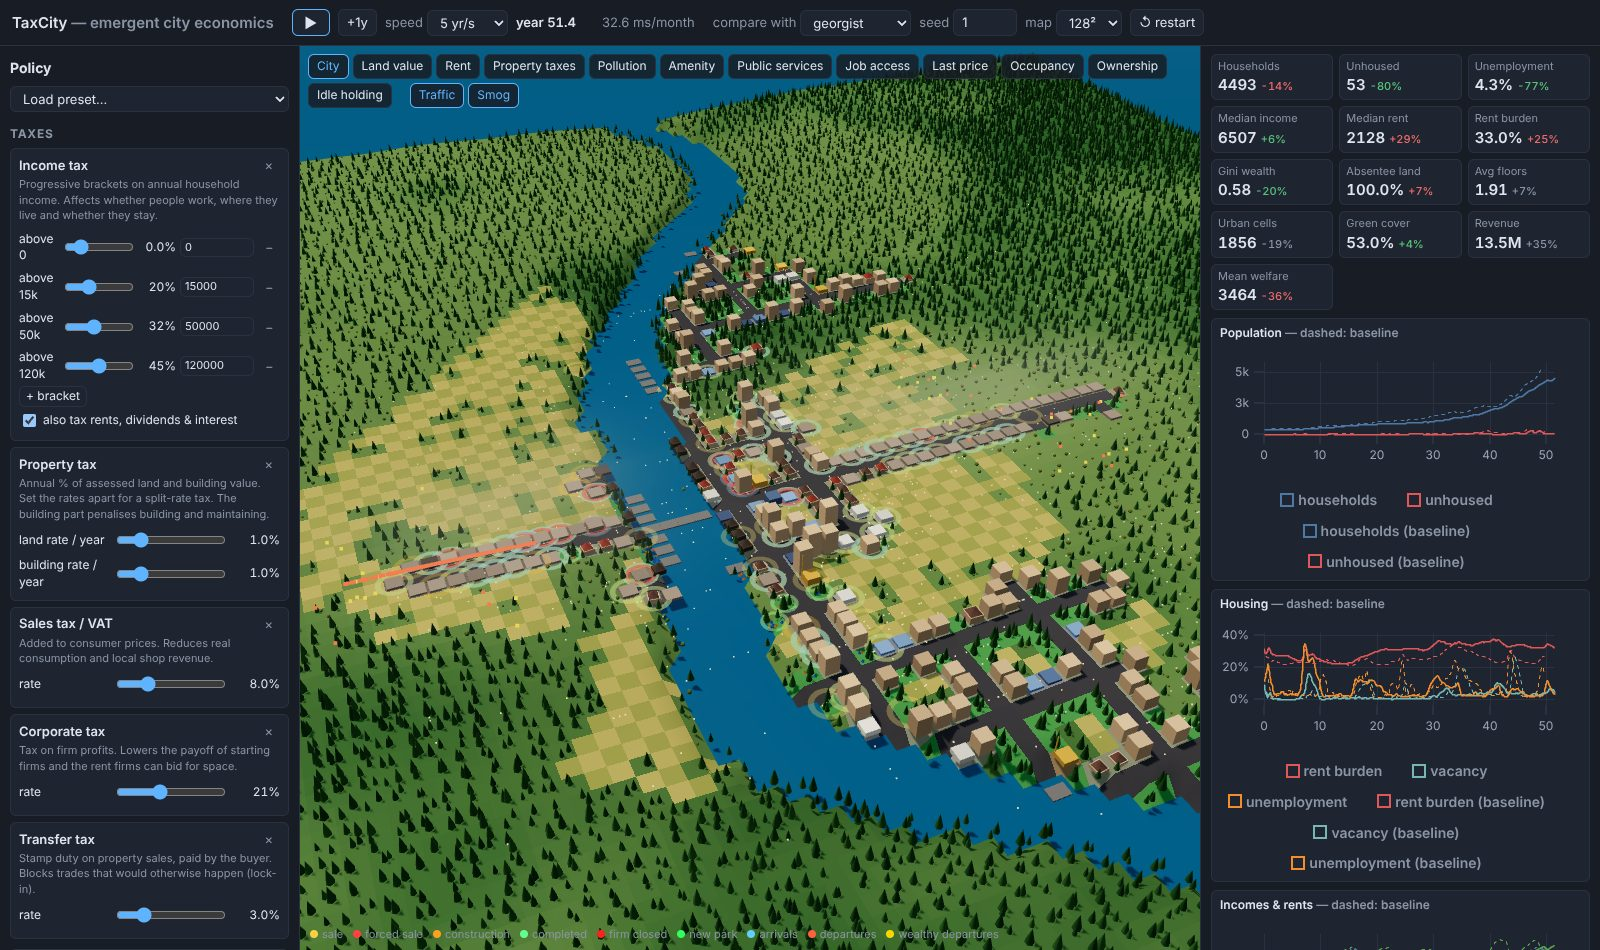
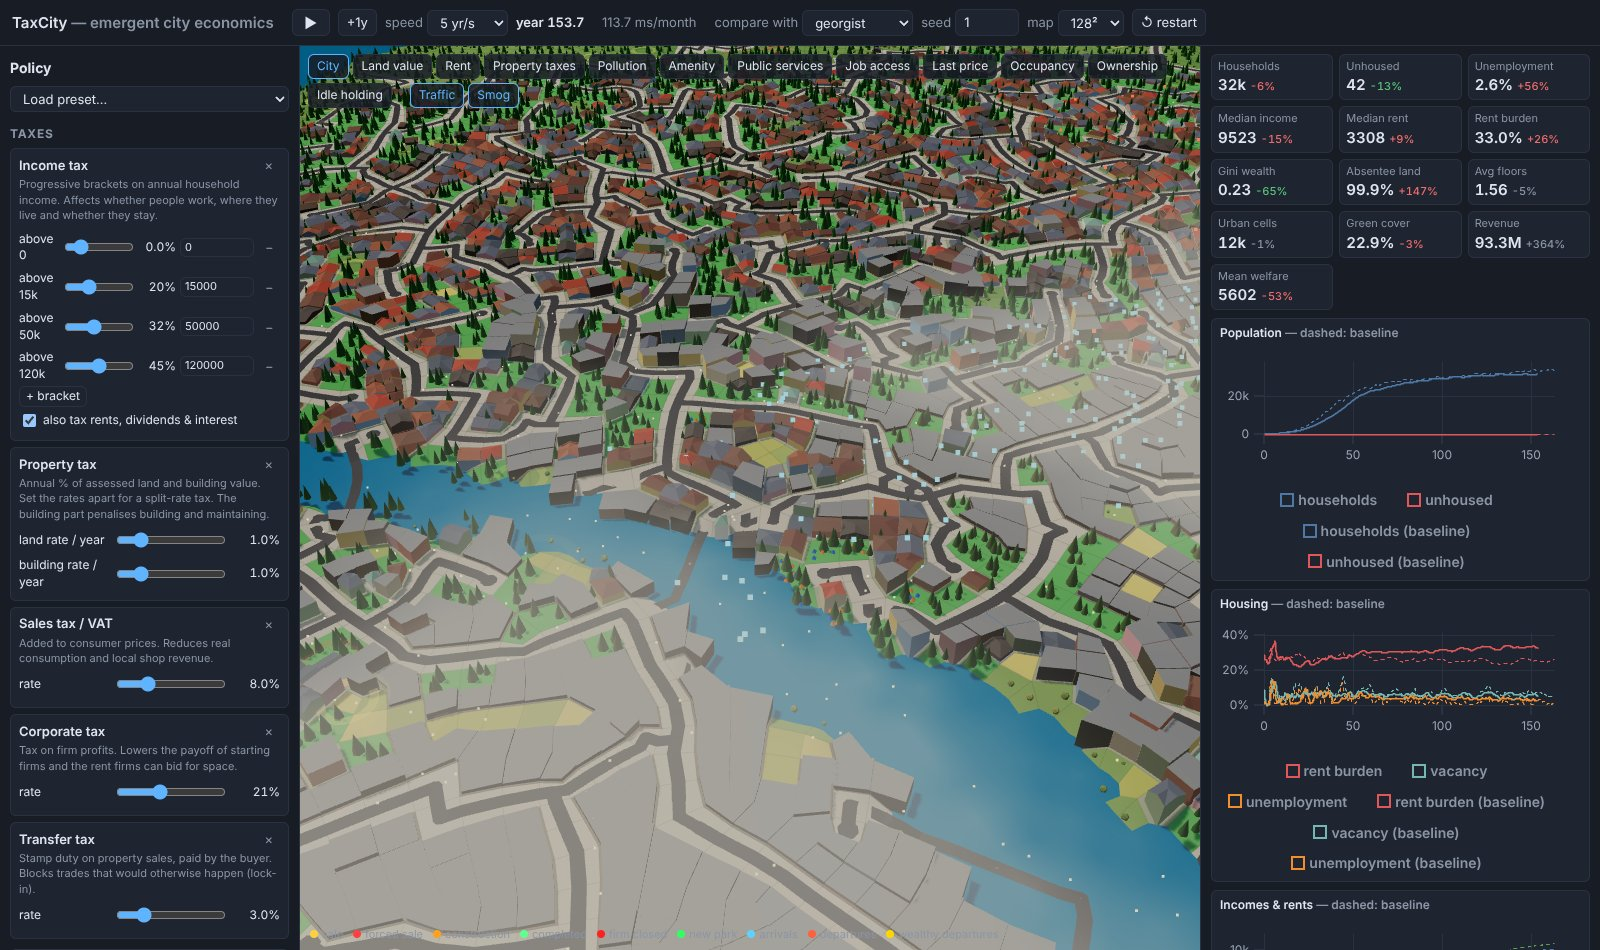
Refresh documented results and README screenshots for the new grid
Re-run the preset comparison (6 seeds x 40 years) and the long audits
under the road planner, note the two Nordic seeds whose export slumps
push unemployment past the audit bound, and replace the screenshots of
the old square grid.

Claude-Session: https://claude.ai/code/session_012WSYYjwYHPEePzuxWuqs7N

diff --git a/docs/model.md b/docs/model.md
@@ -341,20 +341,22 @@ real staff by year 200). Export income per worker grew fourfold, wages fell and 
 ## What the model currently says, and how much to trust it
 
 These are 6 seeds × 40 years, from `taxsim compare` (mean ± standard error; see the README). Differences
-smaller than a couple of standard errors are noise. All presets also pass every audit check over 300 years
-(seed 1), and the Georgist preset for 500 years; cities settle at roughly 26 000–40 000 households.
+smaller than a couple of standard errors are noise. Over 200 years (seed 1) the status quo, Georgist and
+Harberger presets pass every audit check, and cities settle at roughly 26 000–36 000 households. The Nordic
+preset passes in 6 of 8 seeds over 100 years; in the other two, unemployment briefly exceeds the 25% bound
+during an export slump (a town whose jobs are almost all in export industry, with a single shop or two).
 
 * **Georgist** (6% land value tax, dividend):
-  * a larger city than the status quo (≈ 9 600 vs ≈ 8 000 households, about two standard errors), higher
-    output, slightly lower rents and taller buildings;
-  * more land owned by residents (absentee share ≈ 72% vs ≈ 100%) and much higher average resident welfare;
+  * a larger city than the status quo (≈ 13 700 vs ≈ 11 700 households, about three standard errors), higher
+    output, lower rents and taller buildings;
+  * more land owned by residents (absentee share ≈ 73% vs ≈ 100%) and much higher average resident welfare;
   * but modest revenue: land rent is small where land is plentiful and buildings are priced near construction
     cost, so a 6% land tax raises about a third of the status quo's revenue;
   * and much higher wealth inequality (no income or wealth taxes).
 * **Wealth tax** (2% above 1M): lower wealth inequality than the status quo and more departures of wealthy
   households. City size is within noise.
-* **Nordic** (high income tax and VAT): the lowest inequality, the highest revenue and the most deterred workers.
-  In this run it is also one of the largest cities.
+* **Nordic** (high income tax and VAT): the lowest inequality, the highest revenue and many deterred workers
+  (only the flat tax deters more). In this run it is also one of the largest cities.
 * **Harberger at 4% of total value:** the smallest city, with almost no building above one floor: the
   self-assessed tax falls on buildings too, so waiting beats building. A mechanism-level warning about COST rates,
   not a calibrated forecast.

diff --git a/README.md b/README.md
@@ -5,7 +5,7 @@ An interactive, agent-based 3D city that grows out of individual decisions. Use 
 and split-rate tax, sales/VAT, corporate and payroll tax, transfer tax, Harberger (COST) tax, pollution tax,
 vacancy, estate and head taxes, and how the revenue is spent (services, roads, parks, citizen's dividend, welfare).
 
-![The city after 50 years, compared against a Georgist baseline](docs/img/city.jpg)
+![The city after 150 years on its irregular parcel grid, compared against a Georgist baseline](docs/img/city.jpg)
 
 The simulator does **not** encode what the literature predicts. Households, firms, landlords, developers and a
 government follow simple rules. Every tax reaches them only through their own after-tax calculations: whether to
